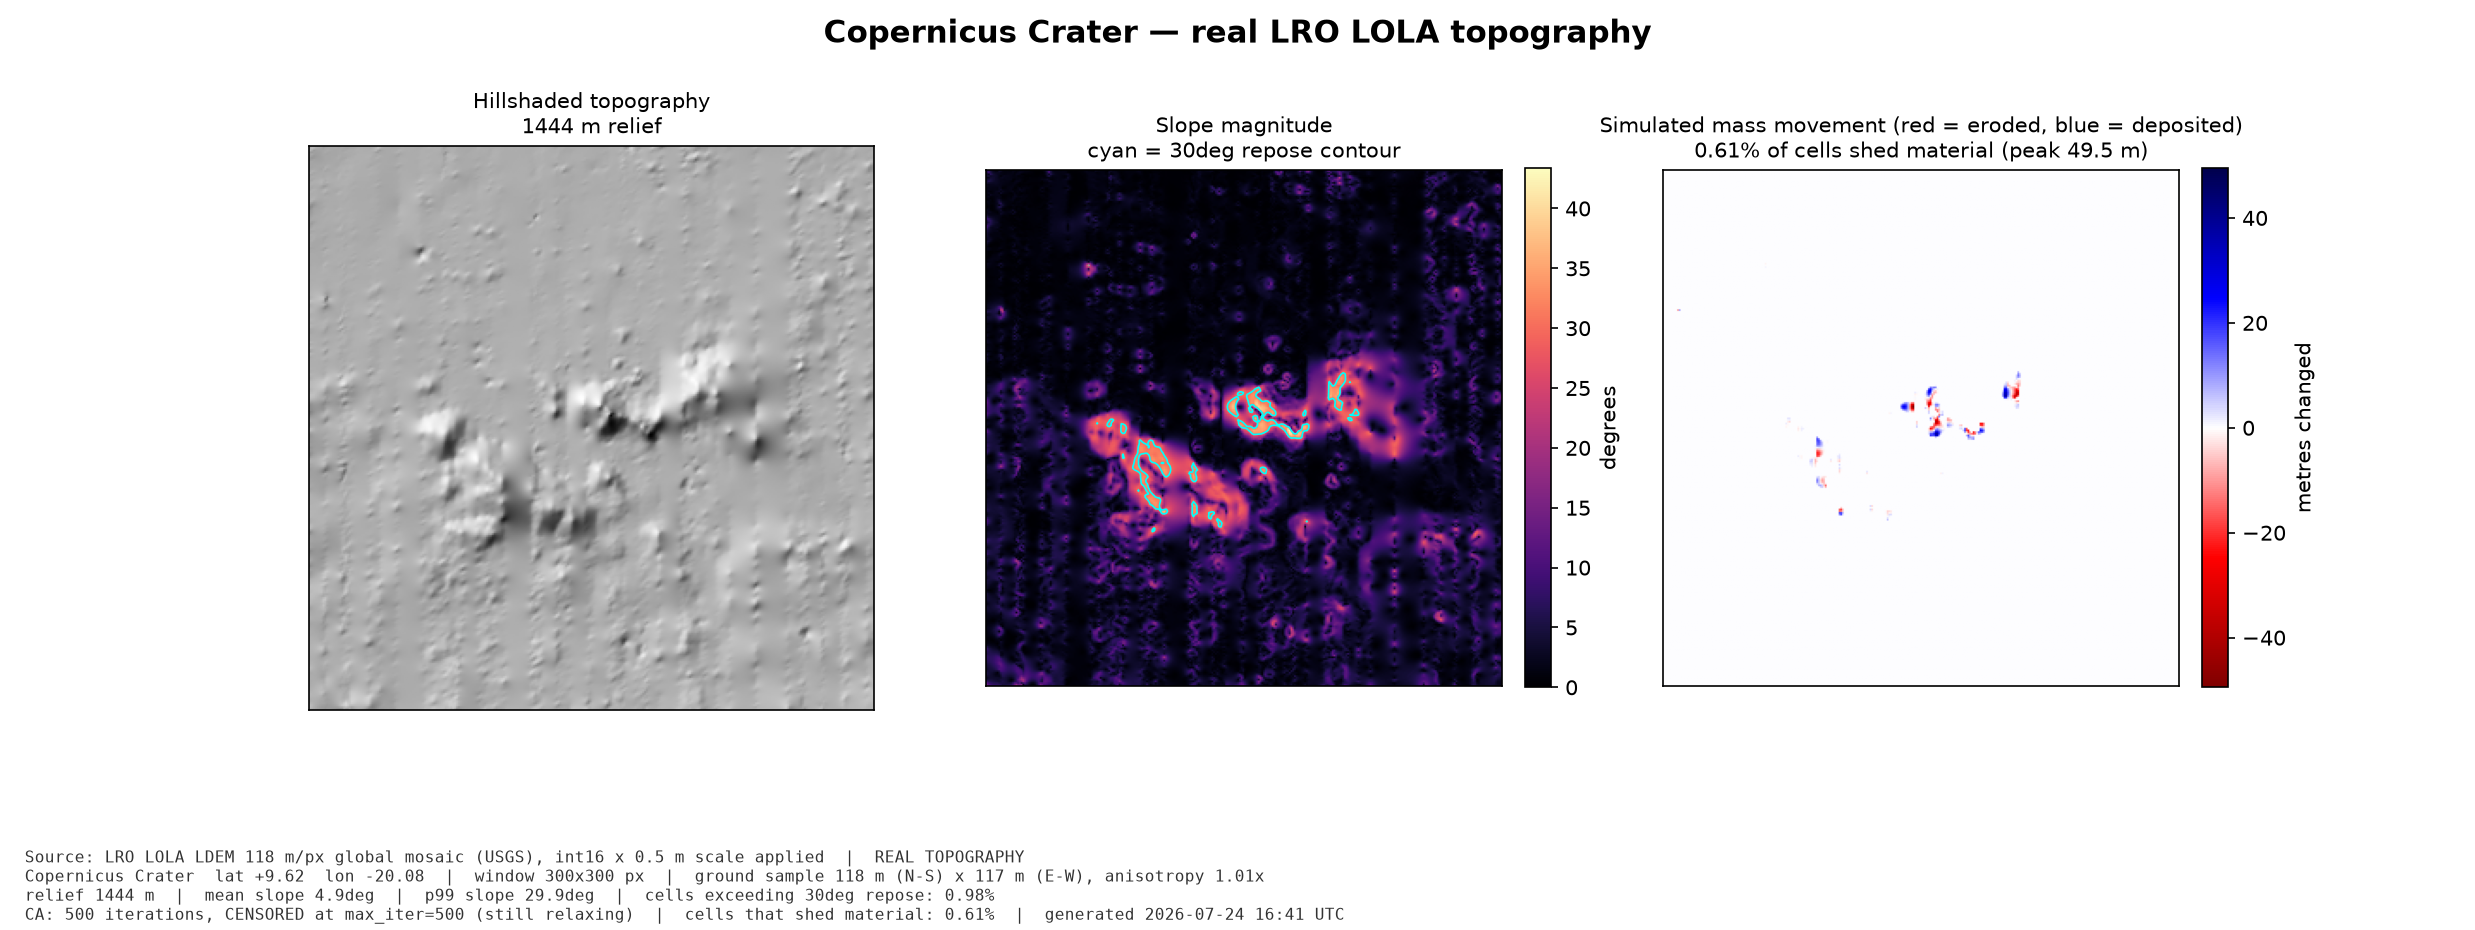
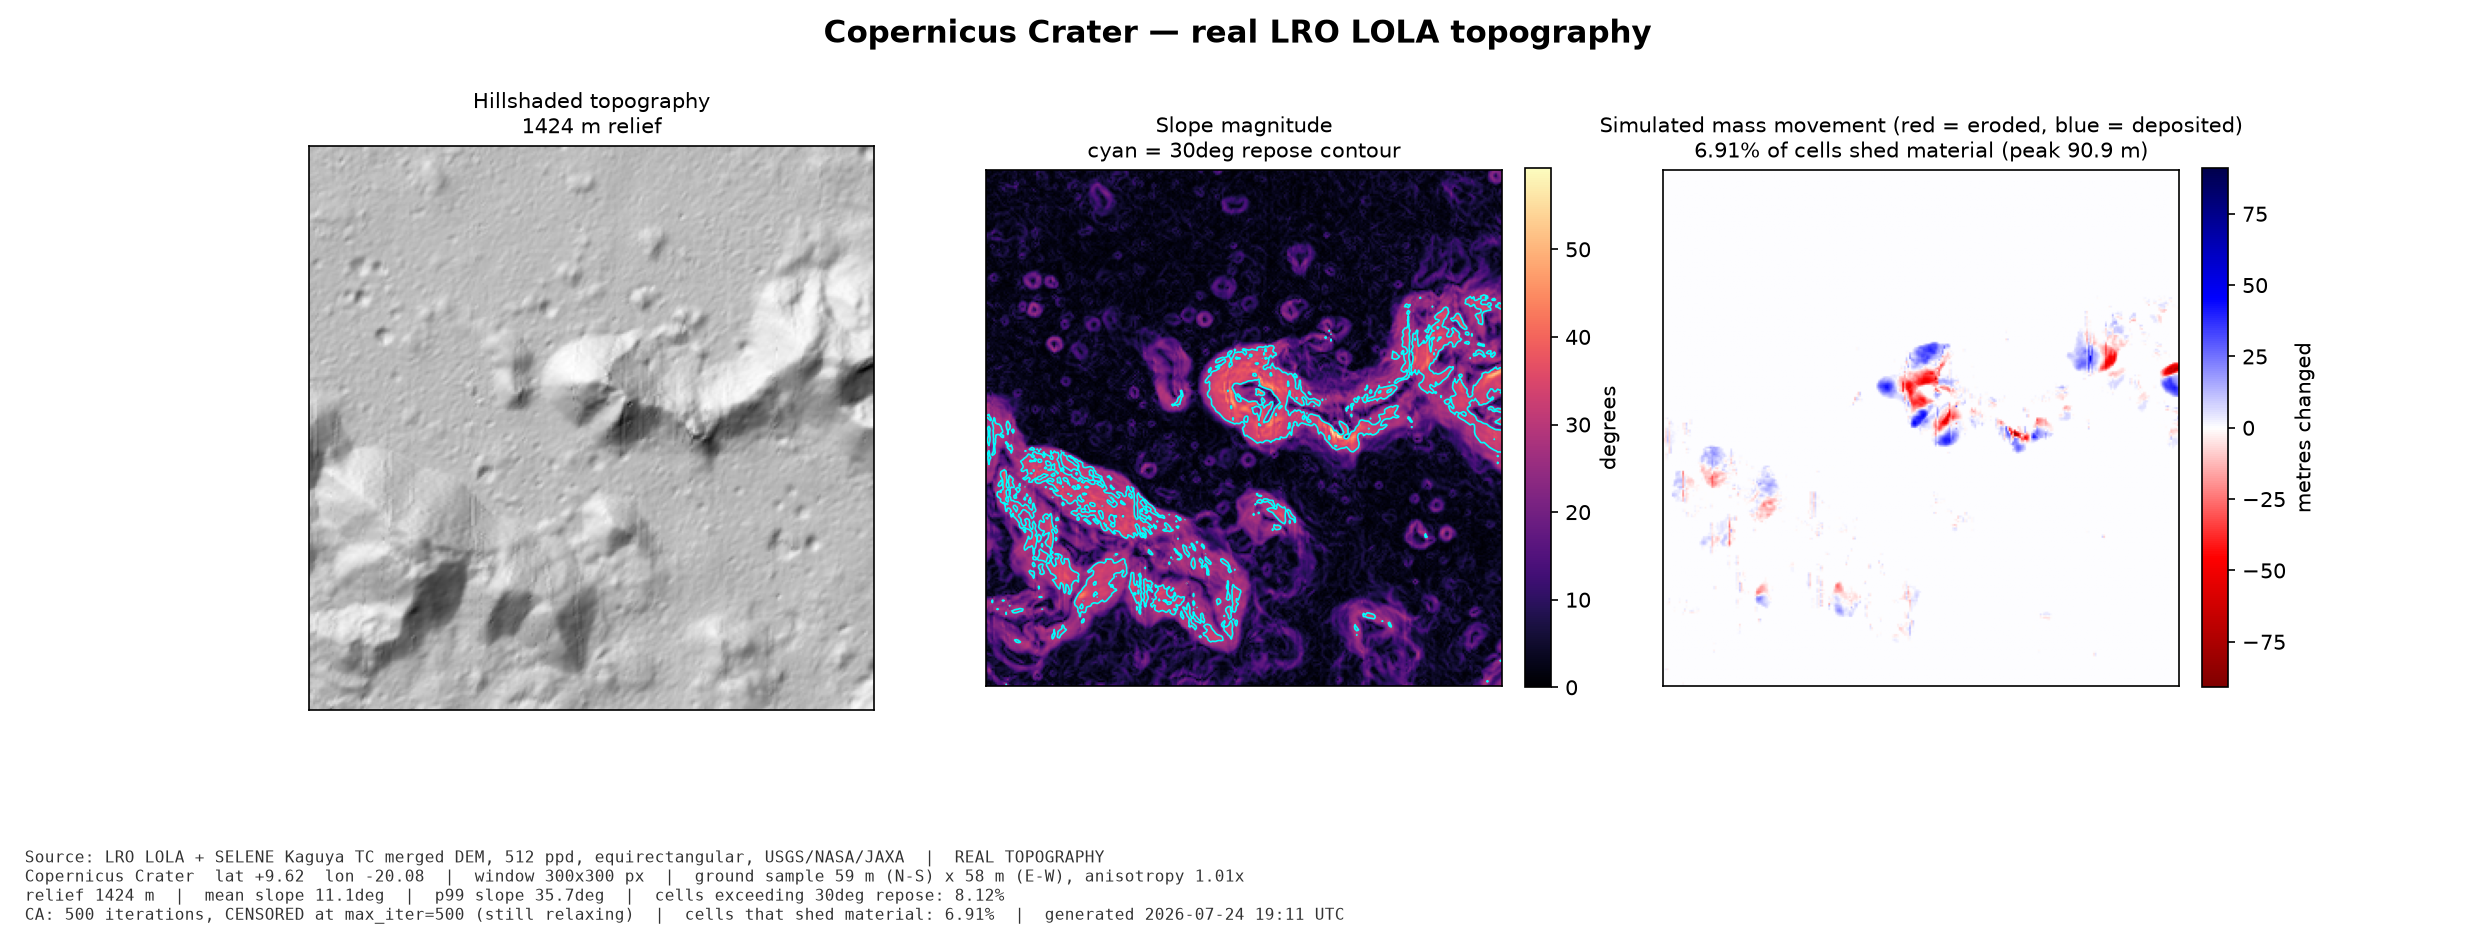
Fix a lying provenance footer, and restore the interactive explorer
Two defects, both mine.

The provenance footer hardcoded "LRO LOLA LDEM 118 m/px global mosaic" while
the product is selected per site by latitude. Tycho's figure therefore claimed
the 118 m mosaic in one line and reported a 59 m ground sample two lines below
it. The footer exists precisely to make a figure auditable in isolation, so a
footer that misattributes its own source undermines the whole mechanism. It now
reads the citation off the patch. The script header had the same fault and now
lists the registry instead of naming one product.

Regenerating with the correct per-site product also sharpens the central result:
at 59 m/px rather than 118 m/px, Tycho sheds 24.60% against 4.63%, Copernicus
6.91% against 0.61%, and Apollo 15 0.91% against 0.23% -- 4x to 11x more failing
ground at every site, in the same direction. Coarse maps average steep short
baselines into gentle ones, so they systematically under-report hazard.

The rewrite of main.py into an orchestrator also silently removed something
worth keeping: the original opened a rotatable 3D matplotlib window, and the
figure scripts render to Agg and never open one. scripts/explore_interactive.py
restores it and extends it -- a rotatable 3D view and a top-down footprint, with
a slider over the effective angle of repose so the descent-engine loading can be
explored by hand. Every angle is simulated on load so the slider responds
instantly.

diff --git a/scripts/explore_interactive.py b/scripts/explore_interactive.py
@@ -1,0 +1,155 @@
+"""Live, interactive Stage 2 explorer — rotate the terrain, drag the load.
+
+Opens a real matplotlib window (not a saved PNG):
+
+* **left**  — the terrain in 3D, rotatable with the mouse, with failing ground
+  painted red.
+* **right** — the same failure footprint over a hillshade, from above.
+* **slider** — the effective angle of repose. Drag it down to simulate a descent
+  engine shaking the regolith, and watch the failure footprint spread.
+
+Every friction angle is simulated up front, so the slider is instant rather than
+stalling for a second on each drag.
+
+    python3 -m scripts.explore_interactive
+    python3 -m scripts.explore_interactive --site tycho
+    python3 -m scripts.explore_interactive --site shackleton --size-px 400
+
+The static PNG suite (scripts.generate_ca_visuals) renders the same physics for
+sharing; this is for looking around.
+"""
+
+from __future__ import annotations
+
+import argparse
+import sys
+
+import numpy as np
+
+# No matplotlib.use("Agg") here on purpose: this script exists to open a window.
+import matplotlib.pyplot as plt
+from matplotlib.colors import LightSource
+from matplotlib.widgets import Slider
+
+from src.physics.dem_loader import fetch_patch
+from src.physics.relaxation import simulate_mass_wasting
+
+SITES = {
+    "apollo15": ("Apollo 15 Landing Site", 26.13, 3.63),
+    "shackleton": ("Shackleton Crater", -89.5, 0.0),
+    "faustini": ("Faustini Crater (PSR)", -87.1, 77.0),
+    "tycho": ("Tycho Crater", -43.31, -11.36),
+    "copernicus": ("Copernicus Crater", 9.62, -20.08),
+    "serenitatis": ("Mare Serenitatis", 28.0, 17.5),
+}
+ANGLES_DEG = (34.0, 32.0, 30.0, 28.0, 26.0, 24.0, 22.0, 20.0, 18.0)
+
+
+def main() -> int:
+    parser = argparse.ArgumentParser(description=__doc__)
+    parser.add_argument("--site", default="apollo15", choices=sorted(SITES))
+    parser.add_argument("--size-px", type=int, default=256)
+    parser.add_argument("--max-iter", type=int, default=400)
+    parser.add_argument("--lat", type=float, help="override latitude")
+    parser.add_argument("--lon", type=float, help="override longitude")
+    args = parser.parse_args()
+
+    name, latitude, longitude = SITES[args.site]
+    if args.lat is not None:
+        latitude, name = args.lat, f"{latitude:+.2f}, {longitude:+.2f}"
+    if args.lon is not None:
+        longitude = args.lon
+
+    print(f"Streaming {name} ...")
+    patch = fetch_patch(latitude, longitude, size_px=args.size_px, verbose=True)
+    if patch is None:
+        print("Could not stream this location.")
+        return 1
+
+    H = patch.elevation.astype(np.float64)
+    dy, dx = patch.grid_spacing
+    product = patch.product
+
+    print(f"Simulating {len(ANGLES_DEG)} friction angles (so the slider is instant) ...")
+    results = {}
+    for angle in ANGLES_DEG:
+        crit = float(np.tan(np.radians(angle)))
+        _, toppled, iterations = simulate_mass_wasting(
+            H, grid_spacing=(dy, dx), crit=crit, max_iter=args.max_iter
+        )
+        results[angle] = toppled
+        print(f"  {angle:4.0f} deg -> {toppled.mean() * 100:6.2f}% shed "
+              f"({iterations} iterations)", flush=True)
+
+    step = max(1, H.shape[0] // 160)
+    coarse = H[::step, ::step]
+    rows, columns = coarse.shape
+    X, Y = np.meshgrid(
+        np.arange(columns) * dx * step / 1000.0,
+        np.arange(rows) * dy * step / 1000.0,
+    )
+    normalised = (coarse - coarse.min()) / max(float(np.ptp(coarse)), 1e-9)
+    base_colours = plt.get_cmap("terrain")(normalised)
+    shade = LightSource(azdeg=315, altdeg=45).hillshade(H, vert_exag=1.0, dx=dx, dy=dy)
+
+    figure = plt.figure(figsize=(15, 7.5))
+    figure.suptitle(
+        f"{name} — drag the slider to shake the regolith  |  "
+        f"{product.name if product else 'raster'}, cell {dy:.0f} x {dx:.0f} m",
+        fontsize=13, fontweight="bold",
+    )
+    axis3d = figure.add_subplot(1, 2, 1, projection="3d")
+    axis2d = figure.add_subplot(1, 2, 2)
+    figure.subplots_adjust(bottom=0.17, top=0.90)
+
+    state: dict = {"surface": None}
+
+    def draw(angle: float) -> None:
+        toppled = results[angle]
+        percent = float(toppled.mean() * 100)
+
+        colours = base_colours.copy()
+        colours[toppled[::step, ::step]] = [1.0, 0.1, 0.0, 1.0]
+        if state["surface"] is not None:
+            state["surface"].remove()
+        state["surface"] = axis3d.plot_surface(
+            X, Y, coarse, facecolors=colours, rstride=1, cstride=1,
+            linewidth=0, antialiased=True, shade=True,
+        )
+        axis3d.set_title(
+            f"{percent:.2f}% of cells shed material   (drag to rotate)", fontsize=10)
+        axis3d.set_xlabel("east (km)")
+        axis3d.set_ylabel("north (km)")
+        axis3d.set_zlabel("elevation (m)")
+
+        axis2d.clear()
+        axis2d.imshow(shade, cmap="gray")
+        overlay = np.zeros((*H.shape, 4))
+        overlay[toppled] = [1.0, 0.1, 0.0, 0.85]
+        axis2d.imshow(overlay)
+        axis2d.set_xticks([]); axis2d.set_yticks([])
+        axis2d.set_title(
+            f"Failure footprint at {angle:.0f}° effective repose\n"
+            f"{'quiescent regolith' if angle >= 30 else 'under vibrational load'}",
+            fontsize=10,
+        )
+        figure.canvas.draw_idle()
+
+    slider_axis = figure.add_axes([0.18, 0.06, 0.64, 0.035])
+    slider = Slider(
+        slider_axis, "effective repose angle (deg)",
+        min(ANGLES_DEG), max(ANGLES_DEG), valinit=30.0,
+        valstep=sorted(ANGLES_DEG), color="#c1440e",
+    )
+    slider.on_changed(lambda value: draw(float(value)))
+    draw(30.0)
+    axis3d.view_init(elev=42, azim=-125)
+
+    print("\nWindow open. Drag the slider; rotate the 3D view with the mouse. "
+          "Close the window to exit.")
+    plt.show()
+    return 0
+
+
+if __name__ == "__main__":
+    sys.exit(main())

diff --git a/scripts/generate_figures.py b/scripts/generate_figures.py
@@ -28,7 +28,7 @@ import numpy as np
 from matplotlib.colors import LightSource
 
 from src.physics.craters import generate_crater_terrain
-from src.physics.dem_loader import LOLA_118M_URL, fetch_patch
+from src.physics.dem_loader import DEM_PRODUCTS, fetch_patch
 from src.physics.relaxation import compute_slope, simulate_mass_wasting
 
 OUTPUT_DIR = Path("figures")
@@ -60,9 +60,13 @@ SITES = (
 
 
 def _provenance(site: Site, patch, stats: dict) -> str:
+    # Must come from the patch, not a constant: the product is selected per
+    # site by latitude, so a hardcoded citation silently misattributes the
+    # data -- the exact failure this footer exists to prevent.
+    product = patch.product
+    citation = product.citation if product else "source raster (unregistered)"
     return (
-        f"Source: LRO LOLA LDEM 118 m/px global mosaic (USGS), int16 x 0.5 m scale applied  |  "
-        f"REAL TOPOGRAPHY\n"
+        f"Source: {citation}  |  REAL TOPOGRAPHY\n"
         f"{site.name}  lat {site.latitude:+.2f}  lon {site.longitude:+.2f}  |  "
         f"window {patch.elevation.shape[0]}x{patch.elevation.shape[1]} px  |  "
         f"ground sample {patch.grid_spacing_y_m:.0f} m (N-S) x {patch.grid_spacing_x_m:.0f} m (E-W), "
@@ -302,7 +306,13 @@ def render_reality_check(real_stats: list[dict]) -> None:
 
 def main() -> int:
     OUTPUT_DIR.mkdir(parents=True, exist_ok=True)
-    print(f"Regenerating Stage 2 figures from {LOLA_118M_URL}\n")
+    # The product is chosen per site by latitude, so naming one here would be
+    # wrong for most of them; each figure states its own source in its footer.
+    print("Regenerating Stage 2 figures. Product auto-selected per site:")
+    for product in DEM_PRODUCTS:
+        print(f"  {product.resolution_m:6.1f} m/px  {product.min_latitude:+.0f}.."
+              f"{product.max_latitude:+.0f} deg  {product.name}")
+    print()
     collected = []
     for site in SITES:
         if site.key == "shackleton":
